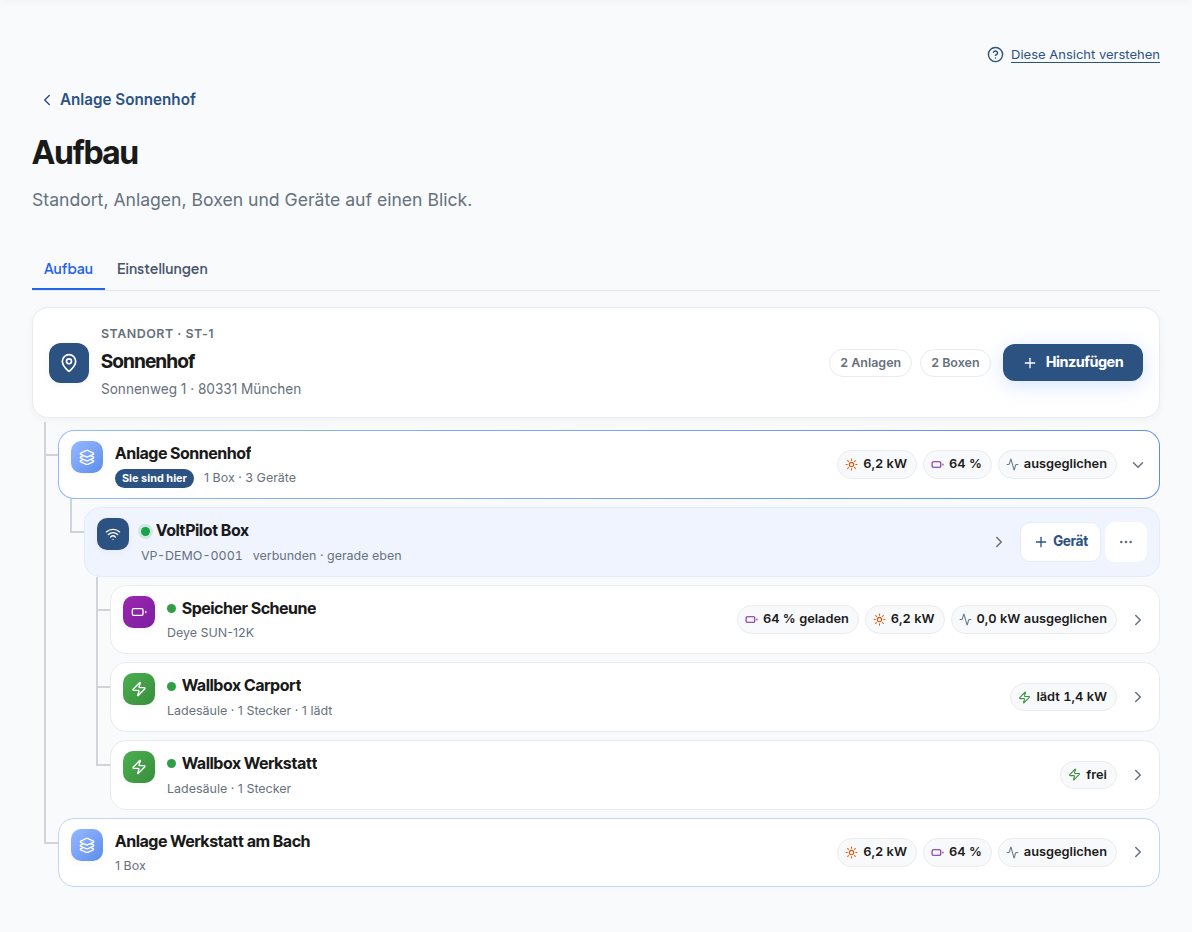
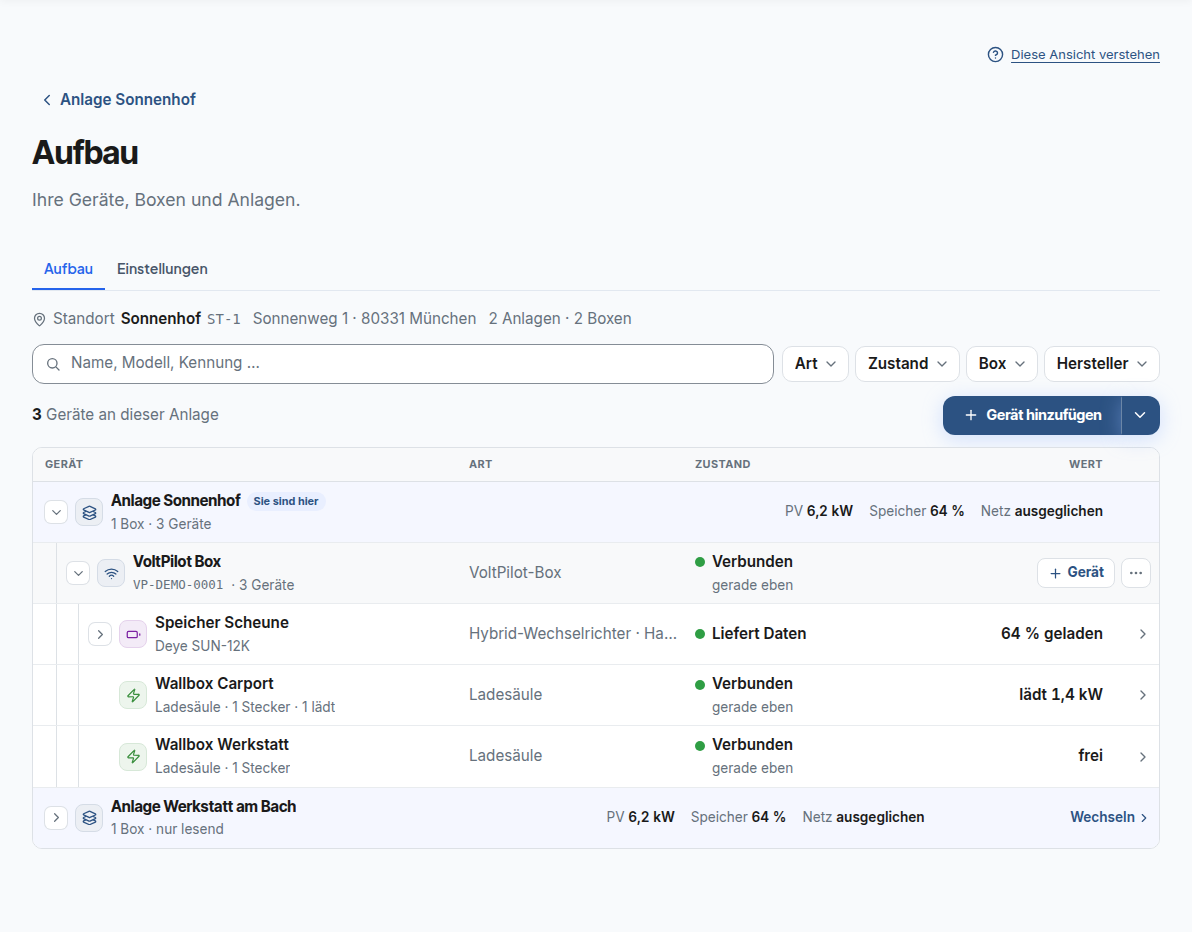
Hilfe und Doku: Aufbau-Tabelle, Gerätekatalog, Einrichten-Seite
- Hilfe-Artikel „Den Aufbau Ihrer Anlage verstehen": Tabelle mit Suche
  und Filtern, neue Abschnitte „Ein Gerät hinzufügen" und „Die
  Einrichten-Seite lesen"
- Aufnahmen: „modell" neu (Tabelle), „geraet-hinzufuegen" (Katalog) und
  „geraet-einrichten" (Seite mit bestandenem Test), alle aus den fiktiven
  Hilfe-Daten; die Fixtures tragen dafür einen kleinen Katalog und einen
  Verbindungstest
- Capture-Skript: `aktionen` (klicken, ausfüllen, warten, ins Bild holen)
  für Wege durch echte Formulare
- docs/portal.md: Aufbau, Katalog und Einrichten-Seite beschrieben

Claude-Session: https://claude.ai/code/session_01BUTP25v5h2wGeoDn6Czuqq

diff --git a/frontend/portal/src/help/content/anlage.ts b/frontend/portal/src/help/content/anlage.ts
@@ -3,17 +3,27 @@ import type { HelpArticle } from '../model';
 export const plantArticles: HelpArticle[] = [
   {
     id: 'anlagenmodell', category: 'anlage', title: 'Den Aufbau Ihrer Anlage verstehen',
-    summary: 'Wie Standort, Anlage, VoltPilot-Box und Geräte zusammengehören.',
-    keywords: ['Aufbau', 'Standort', 'Komponente', 'Modell', 'Gerät', 'Box', 'Zuordnung', 'Messwert', 'Hinzufügen'],
+    summary: 'Wie Anlage, VoltPilot-Box und Geräte zusammengehören und wie Sie ein Gerät hinzufügen.',
+    keywords: ['Aufbau', 'Standort', 'Komponente', 'Modell', 'Gerät', 'Box', 'Zuordnung', 'Messwert', 'Hinzufügen', 'Katalog', 'Suche', 'Filter', 'Modbus', 'Ladesäule', 'Batterie'],
     sections: [
-      { id: 'ordnung', title: 'Vom Standort bis zum Messwert', paragraphs: [
-        "Der Reiter „Aufbau“ zeigt Ihre Anlage als Baum: oben der Standort, darunter seine Anlagen, die VoltPilot-Boxen und die Geräte daran. Ein Gerät kann mehrere Komponenten liefern, etwa Speicher und Netzanschluss. Eine Datenverbindung allein erlaubt noch keine Steuerung.",
+      { id: 'ordnung', title: 'Von der Anlage bis zum Messwert', paragraphs: [
+        "Der Reiter „Aufbau“ zeigt Ihre Anlage als Tabelle: die Anlage, ihre VoltPilot-Boxen und die Geräte daran, jedes mit Art, Zustand und Wert. Die Suche findet Namen, Modelle und Kennungen; die Filter grenzen nach Art, Zustand, Box und Hersteller ein. Ein Gerät kann mehrere Komponenten liefern, etwa Speicher und Netzanschluss. Eine Datenverbindung allein erlaubt noch keine Steuerung.",
       ], figure: 'modell' },
       { id: 'pruefen', title: 'Die eigene Anlage wiedererkennen', paragraphs: [], steps: [
-        'Unter Anlage den Reiter „Aufbau“ öffnen und die Namen im Baum prüfen.',
+        'Unter Anlage den Reiter „Aufbau“ öffnen und die Namen in der Tabelle prüfen.',
         'Ein Gerät antippen: Der Kurzblick zeigt, was es misst, und führt zur Geräteseite. Gerätetyp und Messgrößen mit der tatsächlichen Installation abgleichen.',
-        'Neues über „Hinzufügen“ anlegen: ein Gerät, eine VoltPilot-Box oder eine weitere Anlage. Was die Box schon meldet, steht gestrichelt im Baum und lässt sich übernehmen.',
+        'Was die Box schon meldet, steht gestrichelt in der Tabelle und lässt sich übernehmen.',
       ] },
+      { id: 'hinzufuegen', title: 'Ein Gerät hinzufügen', paragraphs: [
+        "Ohne passende Vorlage stehen Ladesäulen mit OCPP, Batterien mit eigenem BMS und Modbus-Geräte als eigene Einträge im Katalog. Eine VoltPilot-Box oder eine weitere Anlage legen Sie über das Menü neben „Gerät hinzufügen“ an.",
+      ], steps: [
+        '„Gerät hinzufügen“ öffnet den Gerätekatalog. Suchen Sie nach Marke oder Modell, so wie es auf dem Typenschild steht, oder wählen Sie über Art und Marke.',
+        'Nach der Wahl öffnet die Einrichten-Seite. Tragen Sie den Anschluss ein; die Box testet dann von selbst und zeigt echte Werte.',
+        'Mit echten Werten geht „Speichern“. Danach springt der Aufbau auf das neue Gerät.',
+      ], figure: 'geraet-hinzufuegen' },
+      { id: 'einrichten', title: 'Die Einrichten-Seite lesen', paragraphs: [
+        "Die Leiste links zeigt, was fertig ist, was jetzt dran ist und was danach kommt. Solange etwas fehlt, steht der Grund neben „Speichern“. Ein Test ohne gültige Werte speichert nichts; die Hinweise darunter nennen, was Sie prüfen können.",
+      ], figure: 'geraet-einrichten' },
       { id: 'unvollstaendig', title: 'Wenn das Modell unvollständig ist', paragraphs: [
         "Fehlende Komponenten oder Zuordnungen können Werte und Ansichten unvollständig machen. Prüfen Sie vorhandene Einträge, Synchronisation und Messwerte, bevor Sie ein Gerät erneut hinzufügen.",
       ] },

diff --git a/docs/portal.md b/docs/portal.md
@@ -24,12 +24,12 @@ Die Verlauf-Seiten teilen einen Rahmen (`components/VerlaufRahmen`): Zeitleiste,
 
 Der Bereich „Anlage“ hat zwei Reiter (Konzept „Anlage – neu gedacht“, Entscheide E1–E6):
 
-- **Aufbau** (Route `modell`): ein Baum Standort → Anlagen → VoltPilot-Boxen → Geräte, auch mit nur einer Box. Werte stehen als kurze Chips an der Zeile; ein Tippen öffnet den Kurzblick (zentriertes `Modal`, am Telefon Vollbild) mit allen Komponenten, Handlungen und dem Weg zur Geräteseite. „Hinzufügen“ am Standort fragt Gerät · VoltPilot-Box · Anlage; „+ Gerät“ an einer Box beginnt direkt beim Gerät. Was eine Box meldet, aber noch nicht übernommen ist, steht gestrichelt im Baum. Name, Typ und Entfernen der Box liegen an ihrer Zeile. Mit mehreren Boxen stehen die gemeldeten Geräte unter der führenden Box (`registry.deviceId`); die Ableitung ist `aufbauBaum.ts`. Ohne Standort-Auskunft fehlt nur die Adresse, nie der Baum.
+- **Aufbau** (Route `modell`): eine Tabelle mit Gruppen Anlage → VoltPilot-Box → Gerät → Messwert, auch mit nur einer Box (Konzept „Aufbau und Gerätekatalog“, K1–K6). Spalten Gerät · Art · Zustand · Wert; die Suche findet Name, Modell und Kennung, die Filter grenzen nach Art, Zustand, Box und Hersteller ein (`aufbauTabelle.ts`). Am Telefon stehen die Filter hinter einem Knopf im Suchfeld, die Standortzeile entfällt. Ein Tippen öffnet den Kurzblick (zentriertes `Modal`, am Telefon Vollbild) mit allen Komponenten, Handlungen und dem Weg zur Geräteseite. Was eine Box meldet, aber noch nicht übernommen ist, steht gestrichelt in der Tabelle. Mit mehreren Boxen stehen die gemeldeten Geräte unter der führenden Box (`registry.deviceId`); die Ableitung ist `aufbauBaum.ts`.
 - **Einstellungen** (Route `technik`): eine kurze Liste in vier Gruppen (Anlage, Strom & Geld, Speicher, Weiteres). Jede Zeile zeigt ihren Wert; Bearbeiten und „Wirkt auf …“ stehen im Blatt. Netzladen und der Umgang mit dem Speicher wirken direkt und bieten danach „Rückgängig“. Ein Schloss kennzeichnet Werte, die VoltPilot eingerichtet hat. `?abschnitt=` landet weiter auf der Gruppe; `abschnitt=geraet` führt in den Aufbau.
 
-Der Geräte-Assistent hat vier Schritte (Was anbinden · Gerät wählen · Verbinden · Name); der Verbindungstest läuft im Schritt „Verbinden“ von selbst, sobald alle Pflichtfelder stehen. „Als App auf dem Handy“ steht im Konto-Menü. Die Prognosequalität ist ein Reiter nur für VoltPilot; Kunden sehen im Fahrplan unter „Worauf Ihr Plan achtet“ die mittlere Abweichung der Vorhersage je Viertelstunde, und `…/prognose` leitet sie in den Fahrplan.
+„Gerät hinzufügen“ (und „+ Gerät“ an einer Box) öffnet den Gerätekatalog (`GeraeteKatalog`, Ableitung `geraeteKatalog.ts`): Suche nach Marke oder Modell, die Arten als Filter, ohne Suche Art → Marke → Modell; was die Box meldet, steht obenan. Die Wege ohne Vorlage (Ladesäule mit OCPP, Batterie mit eigenem BMS, Modbus-Gerät) und eigene Vorlagen sind gewöhnliche Einträge; „Zähler“ macht ohne Zähler-Vorlage das gewählte Gerät zum Netz-Zähler. Nach der Wahl folgt die Einrichten-Seite (`Einrichten.tsx`): eine Seite mit Abschnitten statt Schritten, der Test mit echten Werten läuft von selbst, „Speichern“ erst mit Beleg und mit Grund im Fuß. Danach nennt der Aufbau, was entstanden ist, und springt darauf. VoltPilot-Box und Anlage stehen im Menü neben „Gerät hinzufügen“. Bearbeitet wird auf der Geräteseite. „Als App auf dem Handy“ steht im Konto-Menü. Die Prognosequalität ist ein Reiter nur für VoltPilot; Kunden sehen im Fahrplan unter „Worauf Ihr Plan achtet“ die mittlere Abweichung der Vorhersage je Viertelstunde, und `…/prognose` leitet sie in den Fahrplan.
 
-Quellen: [Navigation](../frontend/portal/src/anlageNav.ts), [Router](../frontend/portal/src/nav.ts), [Anlagenprojektion](../frontend/portal/src/surface.ts), [Aufbau-Baum](../frontend/portal/src/aufbauBaum.ts).
+Quellen: [Navigation](../frontend/portal/src/anlageNav.ts), [Router](../frontend/portal/src/nav.ts), [Anlagenprojektion](../frontend/portal/src/surface.ts), [Aufbau-Baum](../frontend/portal/src/aufbauBaum.ts), [Aufbau-Tabelle](../frontend/portal/src/aufbauTabelle.ts), [Gerätekatalog](../frontend/portal/src/geraeteKatalog.ts).
 
 ## Fachliche Grenzen
 
